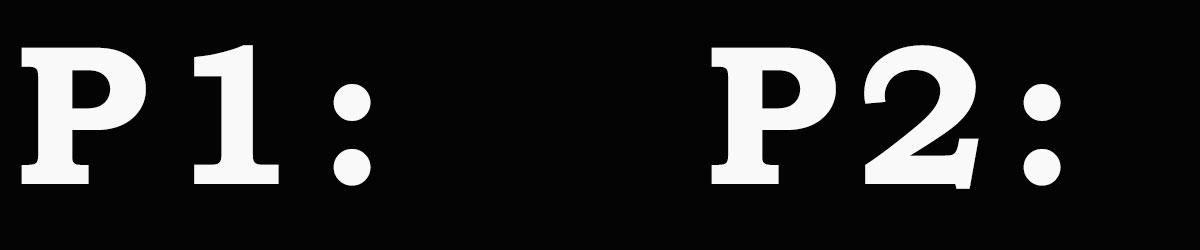
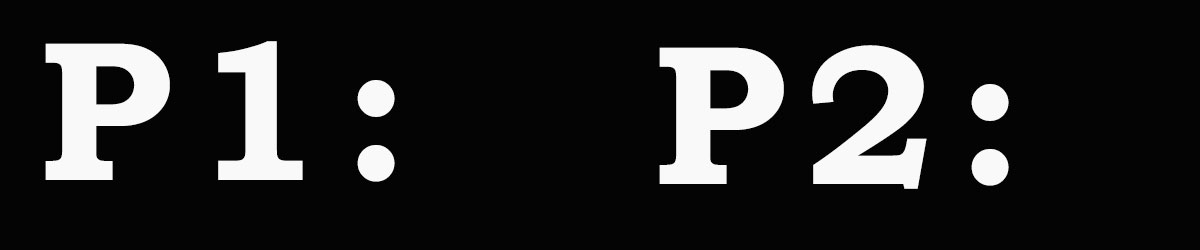
Counter correctly implemented

Changed region(s): [[0.5242, 0.168, 0.8942, 0.756], [0.0, 0.168, 0.3392, 0.756], [0.2775, 0.308, 0.3392, 0.504]]

diff --git a/LAIG-Proj1/LG_Game_State.cpp b/LAIG-Proj1/LG_Game_State.cpp
@@ -14,6 +14,7 @@
 #include "LG_State_Menu.h"
 #include "LG_Clock.h"
 #include "LG_VictoryCounter.h"
+#include "LG_VictoryCounter.h"
 
 LG_Game_State::LG_Game_State(LG_Tzaar *game):game(game){
 }
@@ -48,6 +49,10 @@ LG_Game_State * LG_Game_State::exitButtonClicked(){
     game->scene_anf->replaceGraph();
     LG_Clock *clock=dynamic_cast<LG_Clock *>(game->short_menu_anf->graph->nodeWithID(LG_Clock_ID));
     clock->reset();
+    
+    LG_VictoryCounter *counter=dynamic_cast<LG_VictoryCounter *>(game->short_menu_anf->graph->nodeWithID(LG_VictoryCounter_ID));
+    counter->reset();
+    
     game->nrVictoriesPlayerA=0;
     game->nrVictoriesPlayerB=0;
     game->phase=phase1;

diff --git a/LAIG-Proj1/LG_State_GameOver.cpp b/LAIG-Proj1/LG_State_GameOver.cpp
@@ -9,6 +9,7 @@
 #include "LG_State_GameOver.h"
 #include "LG_Tzaar.h"
 #include "LG_Clock.h"
+#include "LG_VictoryCounter.h"
 #include "LG_State_Waiting_Piece_Selection.h"
 
 
@@ -44,6 +45,9 @@ LG_Game_State * LG_State_GameOver::state(LG_Tzaar *tzaar){
     else{
         tzaar->nrVictoriesPlayerB++;
     }
+    
+    LG_VictoryCounter *counter=dynamic_cast<LG_VictoryCounter *>(tzaar->short_menu_anf->graph->nodeWithID(LG_VictoryCounter_ID));
+    counter->updateNrVictories(tzaar->nrVictoriesPlayerA, tzaar->nrVictoriesPlayerB);
     
     printf("gameover with phase=%d turn=%d\n",tzaar->phase, tzaar->playingColor);
     

diff --git a/LAIG-Proj1/LG_Counter.cpp b/LAIG-Proj1/LG_Counter.cpp
@@ -82,7 +82,7 @@ void LG_Counter::initializeNrApps(){
     nrApps.push_back(app);
     
     
-    text=new LG_Texture(&nrAppsMap, "../data/counterFrame.jpg", nrWidth, nrHeight, "clockSeparator");
+    text=new LG_Texture(&nrAppsMap, "../data/counterFrame.jpg", 8*nrWidth, nrHeight, "clockSeparator");
     app=new LG_Appearance(&nrAppsMap,f,f,f,nrShininess,"counterFrameApp",text);
     
     nrApps.push_back(app);

diff --git a/LAIG-Proj1/LG_Move_Piece_Animation.h b/LAIG-Proj1/LG_Move_Piece_Animation.h
@@ -11,7 +11,7 @@
 
 #include <stdio.h>
 #include "LG_Animation.h"
-#define Move_Piece_Animation_Duration 2.0
+#define Move_Piece_Animation_Duration 1.0
 
 
 class LG_Board_Place;
